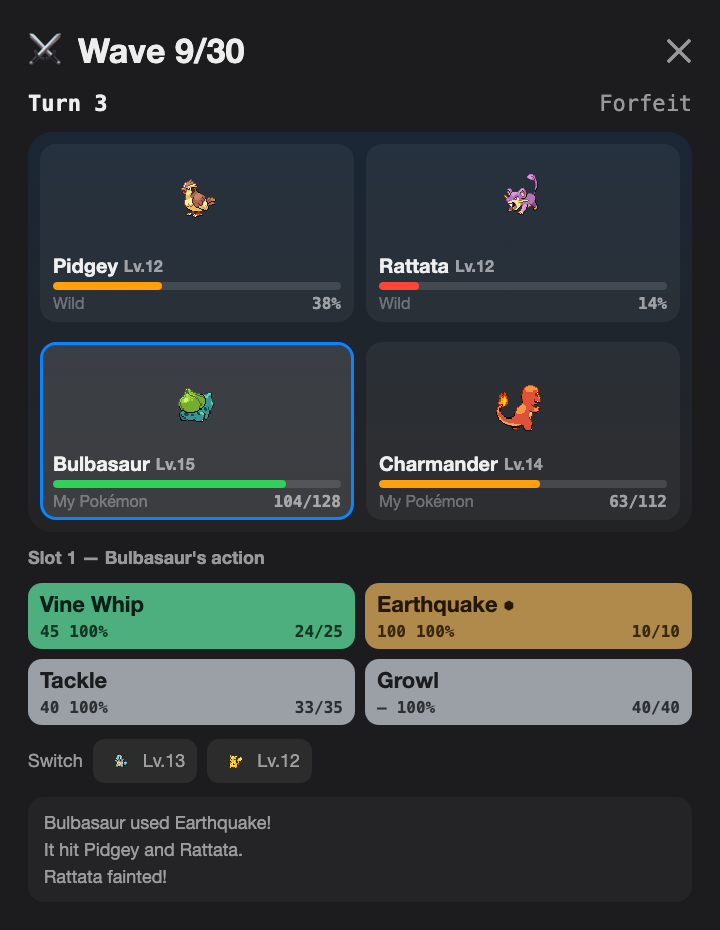
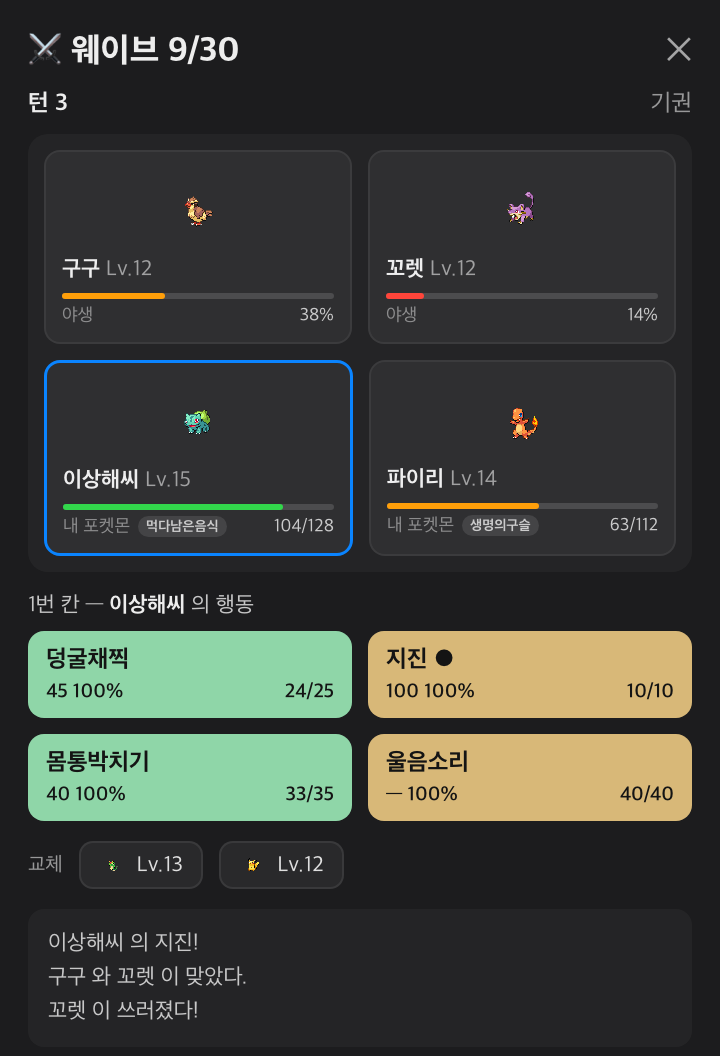
v2.32.0 릴리스 메타데이터를 갱신한다
손빌드 기본값(DEFAULT_VERSION)을 2.32.0 으로 올리고, 릴리스 노트를 지닌물건 161종(#310)의
변경으로 새로 쓴다. 앱 내 업데이트 팝업이 이 파일을 그대로 보여 주므로 지난 내용을 남기면
사용자가 옛 변경 내역을 다시 본다.

#310 이 상점·포켓몬 격자·배틀 칸을 함께 바꿔 스크린샷 세 벌이 낡았다 — 상점은 '배틀' 탭이
생겼고, 격자 칸에는 가방 표식이, 배틀 칸에는 물건 배지가 붙는다. 세 README 가 같은 한국어
화면을 쓰고 있어 언어 변형은 같은 이미지다.

포켓몬 상세 카드의 지닌 물건은 읽는 에셋이 아예 없었다(신규 화면) — 새로 그려 세 README 의
포켓몬 절에 싣는다. 상점·포켓몬 절 본문과 배틀 기능 목록에도 지닌 물건 한 줄씩 더한다.

diff --git a/README.md b/README.md
@@ -38,6 +38,7 @@ Pokédoro는 집중하는 동안 포켓몬 파트너를 모험에 보내고, 수
 - **LAN 배틀** — Bonjour로 같은 로컬 네트워크의 사용자를 찾아 신청합니다. 상대는 직접 수락하며, 신청을 받으면 알림을 띄울 수 있습니다. 배틀 중에는 창이 고정되어 열려 있습니다.
 - **CPU 연습과 랭크 배틀** — CPU를 상대로 1대1·3대3·6대6을 연습하고 출전 포켓몬과 순서를 고를 수 있습니다. LAN 랭크 배틀은 Lv.50으로 보정되고, CPU 연습은 키운 레벨로 진행합니다.
 - **배틀 규칙** — 타입 상성, STAB, 물리·특수 능력치, 명중, 급소, PP, 기술 우선도, 상태이상 6종, 혼란을 반영합니다. 날씨·필드, 리플렉터·빛의장막·오로라베일 같은 진영 효과, 순풍의 우선도 보정, 방어 계열 가드 8종, 테라스탈까지 지원합니다(모의전과 LAN 1대1에서 사용 가능).
+- **지닌 물건** — 배틀에서 쓰이는 지닌 물건 161종을 상점 '배틀' 탭에서 사서 포켓몬에게 들려 줍니다. 타입 강화 도구·열매·주얼·플레이트부터 생명의구슬·구애 계열·돌격조끼까지 있고, 물건마다 대가가 다릅니다. 무엇을 지녔는지는 포켓몬 상세 카드와 격자의 가방 표식으로 확인하고, 함께 다니는 포켓몬은 그 자리에서 벗길 수 있습니다. 배틀 화면에서는 내 포켓몬의 물건만 보이고 상대의 것은 발동할 때 기록으로 드러납니다.
 - **체육관과 능력 랭크 변화** — 8개 타입 체육관에 3대3으로 도전합니다. 첫 승리마다 별의조각과 알 1개를 받고, 드래곤 체육관의 알은 고급 이상이 보장됩니다. 여덟 곳을 모두 클리어하면 이로치 알 보증권 1개를 받습니다. 공격·방어·특공·특방·스피드·명중·회피는 배틀 중 오르내리며, 교체하면 초기화됩니다.
 - **팀 배틀과 턴 재생** — LAN 배틀도 고른 팀과 순서로 진행합니다. 확정된 턴은 한 수씩 재생되며, 설정에서 재생 속도를 고를 수 있습니다.
 - **2~4인 방 배틀** — 친구 탭에서 방을 만들거나 근처 방에 참가해 2~4명이 한 판에서 겨룹니다. 개인전과 2대2 팀전 중에 고르고, 방장이 시작하면 참가자 모두가 같은 배틀을 진행합니다. 최근 배틀 기록과 그때 받은 별의조각도 같은 화면에 남습니다.
@@ -67,15 +68,15 @@ Pokédoro는 집중하는 동안 포켓몬 파트너를 모험에 보내고, 수
 <tr>
 <td width="55%" valign="middle">
 <h3>포켓몬과 도감</h3>
-보유 포켓몬을 확인하고 파트너를 교체하며, 기술·경험치와 발견한 종을 볼 수 있습니다. 이름으로 검색해 보관함·팀 선택·교환 목록에서 원하는 포켓몬을 바로 찾고, 영구 도감에 아직 등록되지 않은 포켓몬이나 같은 진화 계보를 가진 중복 포켓몬만 따로 모아 정리할 수도 있습니다. 포켓몬 탭 밖의 선택 목록은 대부분 레벨 내림차순으로 표시되고(팀 고르기는 정렬 버튼으로 가나다순·부화순도 볼 수 있습니다), 경매에 올릴 포켓몬을 고르는 목록만 이름 가나다순입니다. 1~9세대 전 종을 다룹니다(움직이는 스프라이트가 없는 9세대 후반 14종은 제외). 아끼는 포켓몬에 별을 달면 놓아주기·교환·경매 출품이 막히고, 머리말의 별로 즐겨찾기만 모아 볼 수 있습니다.
+보유 포켓몬을 확인하고 파트너를 교체하며, 기술·경험치와 발견한 종을 볼 수 있습니다. 이름으로 검색해 보관함·팀 선택·교환 목록에서 원하는 포켓몬을 바로 찾고, 영구 도감에 아직 등록되지 않은 포켓몬이나 같은 진화 계보를 가진 중복 포켓몬만 따로 모아 정리할 수도 있습니다. 포켓몬 탭 밖의 선택 목록은 대부분 레벨 내림차순으로 표시되고(팀 고르기는 정렬 버튼으로 가나다순·부화순도 볼 수 있습니다), 경매에 올릴 포켓몬을 고르는 목록만 이름 가나다순입니다. 1~9세대 전 종을 다룹니다(움직이는 스프라이트가 없는 9세대 후반 14종은 제외). 아끼는 포켓몬에 별을 달면 놓아주기·교환·경매 출품이 막히고, 머리말의 별로 즐겨찾기만 모아 볼 수 있습니다. 상세 카드에서는 특성·종족값·기술과 함께 지닌 물건과 테라 타입을 보고, 함께 다니는 포켓몬이면 물건을 벗길 수 있습니다.
 </td>
-<td width="45%" align="center"><img src="assets/screenshot-pokemon-favorites-ko.png" width="180" alt="즐겨찾기"><br><br><img src="assets/screenshot-collection-pokedex.png" width="180" alt="도감"><br><br><img src="assets/screenshot-collection-catchlog.png" width="180" alt="포켓몬 수집 기록"></td>
+<td width="45%" align="center"><img src="assets/screenshot-pokemon-favorites-ko.png" width="180" alt="즐겨찾기"><br><br><img src="assets/screenshot-pokemon-held-item-ko.png" width="180" alt="포켓몬 상세 카드의 지닌 물건"><br><br><img src="assets/screenshot-collection-pokedex.png" width="180" alt="도감"><br><br><img src="assets/screenshot-collection-catchlog.png" width="180" alt="포켓몬 수집 기록"></td>
 </tr>
 <tr>
 <td width="45%" align="center"><img src="assets/screenshot-shop-ko.png" width="180" alt="상점"><br><br><img src="assets/screenshot-bag-ko.png" width="180" alt="가방"></td>
 <td width="55%" valign="middle">
 <h3>상점과 가방</h3>
-별의조각으로 알, 이상한 사탕, 민트, 연결의끈, 진화의 돌, 기술머신, 의상을 구매합니다. 재고로 쌓이는 물건은 수량을 정해 한 번에 사고(잔액으로 살 수 있는 최대까지), 가방에서는 아이템을 사용하거나 필요 없는 것을 버립니다.
+별의조각으로 알, 이상한 사탕, 민트, 연결의끈, 진화의 돌, 기술머신, 의상을 구매합니다. 배틀에서 쓰는 지닌 물건 161종은 '배틀' 탭에 따로 모여 있어 소비 아이템과 섞이지 않습니다. 재고로 쌓이는 물건은 수량을 정해 한 번에 사고(잔액으로 살 수 있는 최대까지), 가방에서는 아이템을 사용하거나 필요 없는 것을 버립니다.
 </td>
 </tr>
 <tr>

diff --git a/README.en.md b/README.en.md
@@ -37,6 +37,7 @@ You can enable Do Not Disturb to block system notifications, the floating pet, a
 - **LAN battles** — discover people on the same local network with Bonjour, send a challenge, and have the other player accept it manually. A received challenge can raise a notification; during a battle the window stays pinned open.
 - **Practice and ranked battles** — practice against the CPU in 1v1, 3v3, or 6v6 with a chosen team and order. Ranked LAN battles normalize Pokémon to Lv.50; CPU practice uses the levels you raised.
 - **Battle rules** — type matchups, STAB, physical and special stats, accuracy, critical hits, PP, move priority, six status conditions, and confusion are supported. Also weather and terrain, side conditions like Reflect/Light Screen/Aurora Veil, Tailwind's priority boost, the eight-move Protect family, and Terastallization (usable in practice battles and LAN 1v1).
+- **Held items** — 161 battle held items are sold in the shop's Battle tab and can be given to your Pokemon. They range from type-boosting tools, berries, gems and plates to Life Orb, the Choice items and Assault Vest, each with its own trade-off. A Pokemon's held item shows on its detail card and as a bag mark in the grid, and your partner's item can be taken off right there. In battle only your own side's item is shown; the opponent's is revealed in the log when it triggers.
 - **Gyms and stat stages** — challenge eight type gyms in 3v3. Every first clear pays Star Pieces and one egg, and the Dragon Gym's egg is guaranteed to be uncommon or better. Clearing all eight grants one shiny egg charge. Attack, Defense, Sp. Atk, Sp. Def, Speed, accuracy, and evasion can change during battle; switching resets those stages.
 - **Team battles and turn playback** — LAN battles also use the team and order you choose. Resolved turns play step by step, with playback speed configurable in Settings.
 - **2–4 player room battles** — create a room from the Friends tab or join one nearby and fight two to four trainers in a single battle. Pick free-for-all or 2 vs 2, and everyone plays the same battle once the host starts it. Recent battles and the Star Pieces they paid stay on the same screen.
@@ -66,15 +67,15 @@ Choose a focus duration, track the partner's adventure, and claim the completed 
 <tr>
 <td width="55%" valign="middle">
 <h3>Your Pokémon and Pokédex</h3>
-Review your owned Pokémon, select a partner, check moves and experience, and see the species you have discovered. Search by name to pull a Pokémon straight out of the box, team picker, or trade list. You can also show only Pokémon not yet permanently registered in the Pokédex, or duplicates from the same evolution family—even when their current forms differ. Pokémon pickers outside the roster default to descending level (the team picker's sort button can switch to alphabetical or catch order), except the auction listing picker, which stays alphabetical. Every species from Generations 1–9 is here, minus fourteen late Gen 9 ones that have no animated sprite. Star the ones you want to keep — a favorite cannot be released, traded, or listed on the market, and the header star narrows the box to favorites only.
+Review your owned Pokémon, select a partner, check moves and experience, and see the species you have discovered. Search by name to pull a Pokémon straight out of the box, team picker, or trade list. You can also show only Pokémon not yet permanently registered in the Pokédex, or duplicates from the same evolution family—even when their current forms differ. Pokémon pickers outside the roster default to descending level (the team picker's sort button can switch to alphabetical or catch order), except the auction listing picker, which stays alphabetical. Every species from Generations 1–9 is here, minus fourteen late Gen 9 ones that have no animated sprite. Star the ones you want to keep — a favorite cannot be released, traded, or listed on the market, and the header star narrows the box to favorites only. The detail card shows the ability, base stats and moves along with the held item and Tera type, and your partner's item can be taken off from there.
 </td>
-<td width="45%" align="center"><img src="assets/screenshot-pokemon-favorites.png" width="180" alt="Favorites"><br><br><img src="assets/screenshot-collection-pokedex.png" width="180" alt="Pokédex collection"><br><br><img src="assets/screenshot-collection-catchlog.png" width="180" alt="Pokémon collection log"></td>
+<td width="45%" align="center"><img src="assets/screenshot-pokemon-favorites.png" width="180" alt="Favorites"><br><br><img src="assets/screenshot-pokemon-held-item.png" width="180" alt="Held item on the Pokémon detail card"><br><br><img src="assets/screenshot-collection-pokedex.png" width="180" alt="Pokédex collection"><br><br><img src="assets/screenshot-collection-catchlog.png" width="180" alt="Pokémon collection log"></td>
 </tr>
 <tr>
 <td width="45%" align="center"><img src="assets/screenshot-shop.png" width="180" alt="Shop"><br><br><img src="assets/screenshot-bag.png" width="180" alt="Bag"></td>
 <td width="55%" valign="middle">
 <h3>Shop and Bag</h3>
-Spend Star Pieces on eggs, Rare Candy, Mints, Link Cords, evolution stones, TMs, and outfits. Anything that stacks can be bought several at a time, up to whatever your balance affords, and the Bag lets you use an item or discard what you no longer need.
+Spend Star Pieces on eggs, Rare Candy, Mints, Link Cords, evolution stones, TMs, and outfits. The 161 battle held items sit in their own Battle tab, so they never bury the consumables. Anything that stacks can be bought several at a time, up to whatever your balance affords, and the Bag lets you use an item or discard what you no longer need.
 </td>
 </tr>
 <tr>

diff --git a/RELEASE_NOTES.ko.md b/RELEASE_NOTES.ko.md
@@ -1,7 +1,9 @@
 ## 이번 업데이트
 
-- **상단 창을 단축키로 열고 닫습니다** — 설정에서 전역 단축키를 지정하면 어느 앱에 있어도 창을 바로 띄울 수 있습니다. 기본값은 설정 안 함이고, 수정키(⌘⌥⇧⌃)를 하나 이상 포함해야 등록됩니다.
-- **모험 파티의 예비 자리가 밀리지 않습니다** — 함께 다닐 포켓몬을 바꾸면 모험 파티 2~6번이 한 칸씩 밀리던 문제를 고쳤습니다. 예전 활성 포켓몬이 예비로 오인돼 끼어들던 저장 방식을 바로잡았습니다.
-- **LAN 방이 판 도중에 깨지지 않습니다** — 누군가 들어오거나 나가도 싸우던 사람이 배틀 화면에서 로비로 튕기지 않습니다. 이미 진행 중인 레이드 방은 새 입장을 받지 않고 "판이 진행 중입니다" 로 돌려보냅니다.
-- **구버전과 섞여도 방이 끊기지 않습니다** — 방 프로토콜 버전을 올려, 옛 버전 참가자가 입장한 뒤 라운드 중에 연결이 끊기던 경우를 막았습니다.
-- **포켓몬 탭 머리줄이 한 줄로 나옵니다** — 좁은 팝오버 폭에서 제목이 세 줄로 접히던 문제를 고쳤습니다.
+- **지닌 물건 161종이 들어왔습니다** — 타입 강화 도구 22종, 열매 29종, 주얼 18종, 플레이트 17종을 비롯해 생명의구슬·구애 계열·돌격조끼·풍선·진화의휘석까지 본가 수준으로 채웠습니다. 물건마다 대가가 다르고, 배틀 계산에 그대로 반영됩니다.
+- **상점에 '배틀' 탭이 생겼습니다** — 지닌 물건이 사탕·민트 같은 소비 아이템과 섞이지 않게 탭을 갈랐습니다.
+- **무엇을 지녔는지 화면에서 봅니다** — 포켓몬 상세 카드에 물건 이름과 효과 힌트가 나오고, 격자 칸에는 가방 표식이 붙습니다. 함께 다니는 포켓몬은 상세 카드에서 물건을 벗길 수 있습니다(전에는 한 번 들려 주면 되돌릴 방법이 없었습니다).
+- **배틀 화면에 물건 배지가 붙습니다** — 내 포켓몬이 지닌 물건만 보이고, 상대의 물건은 발동할 때 기록으로 드러납니다.
+- **테라 타입을 상세 카드에서 확인합니다** — 테라피스로 바꾼 타입을 읽는 화면이 없어 보이지 않던 것을 고쳤습니다.
+
+> 대전 규칙과 방 프로토콜 버전이 올라갑니다. LAN 배틀·방 배틀·레이드는 같은 버전끼리 하세요.
